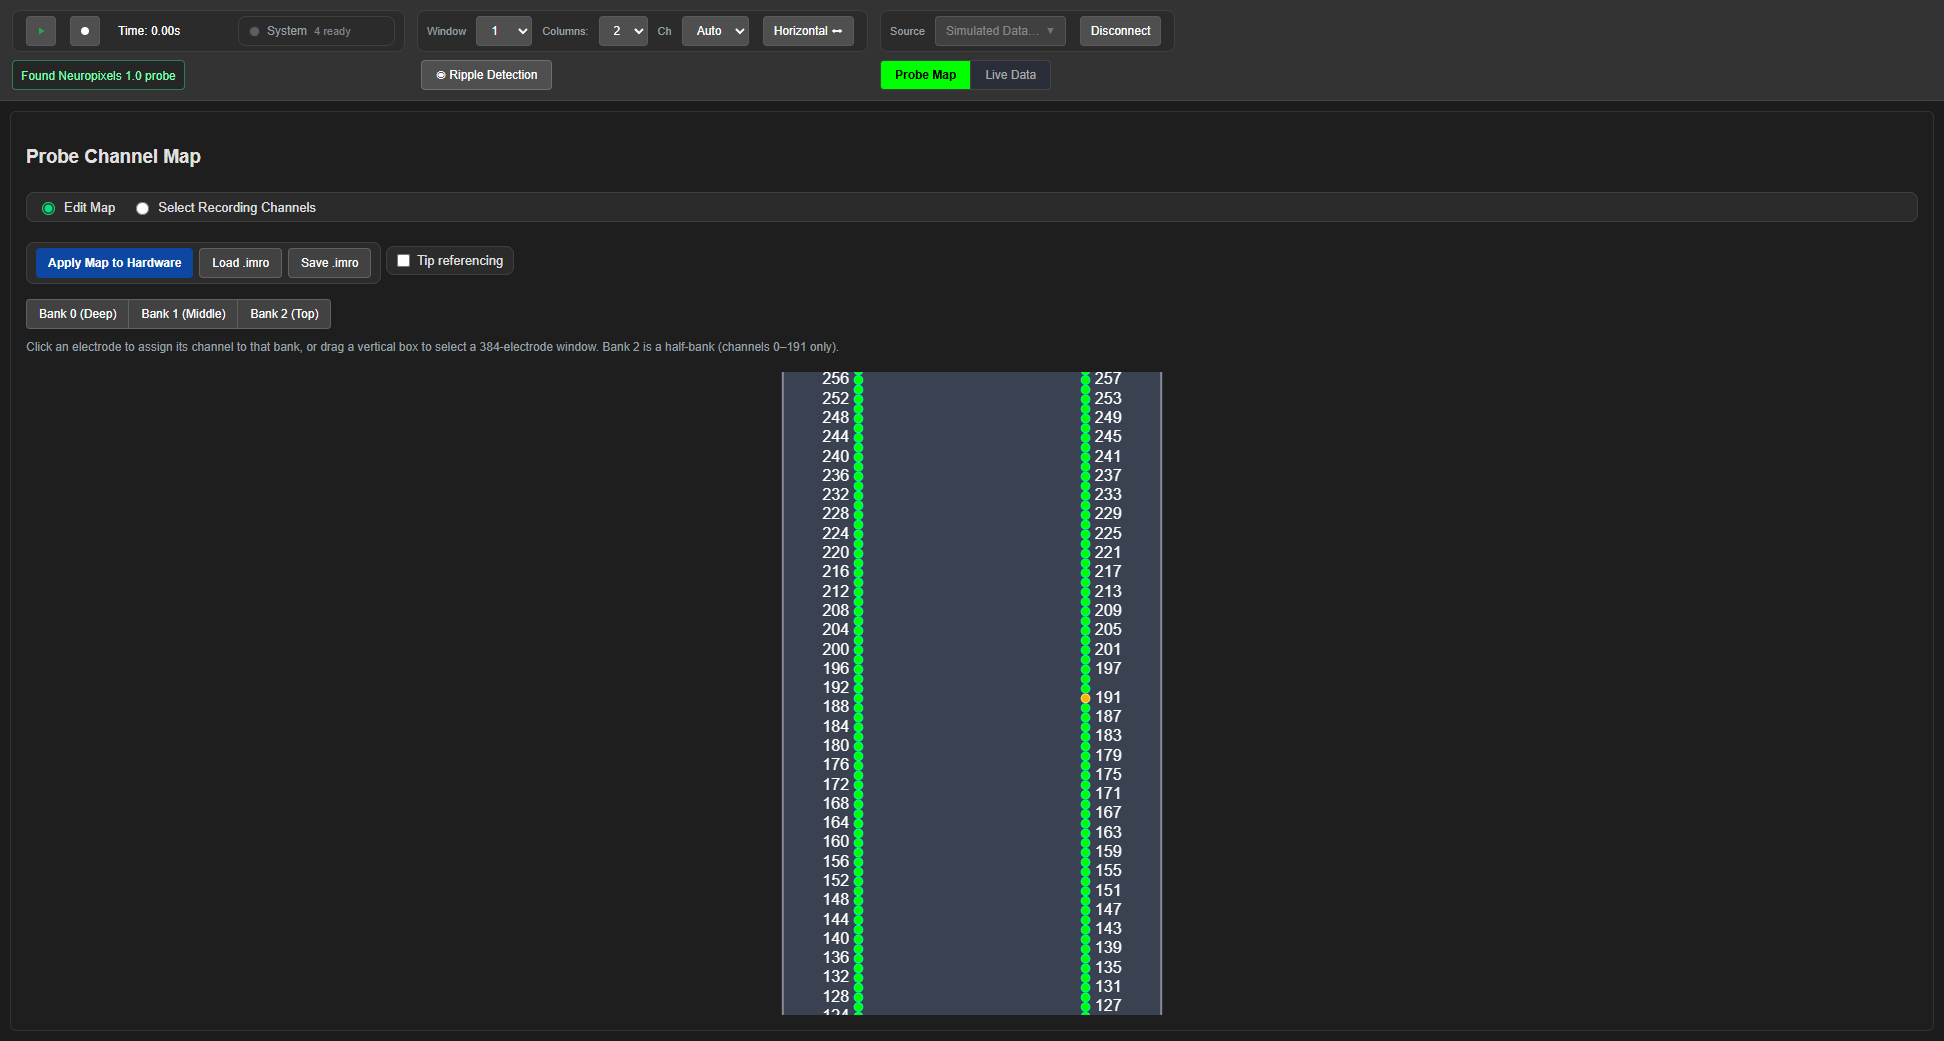
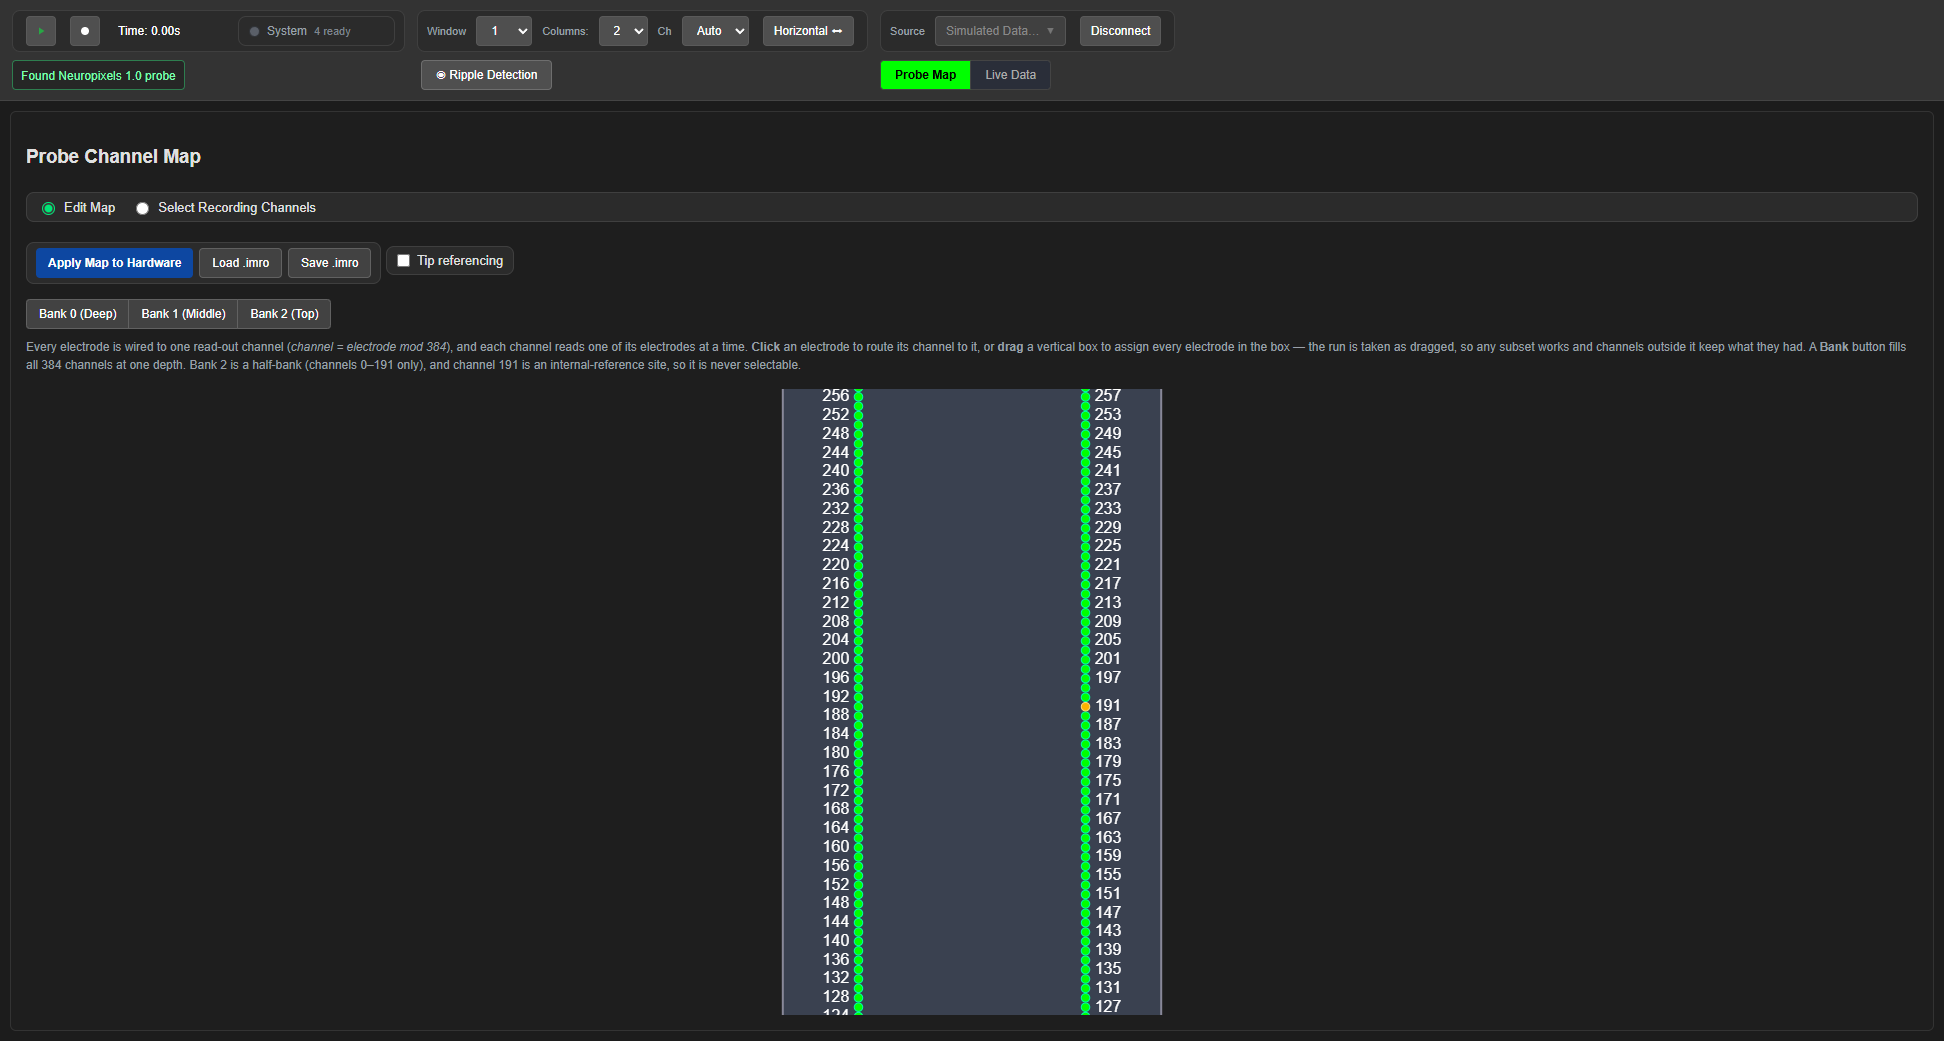
Deploying to master from @ NeuralAscension/SpikesPeak@3f0c355121f82295d0eeac0d670f5f9f4439de7a 🚀

Changed region(s): [[0.0, 0.3074, 0.9877, 0.9529]]

diff --git a/spikespeak/feature/OneBoxSupport/SpikesPeak_Status.html b/spikespeak/feature/OneBoxSupport/SpikesPeak_Status.html
@@ -248,6 +248,11 @@ Sections S1-S12 are <strong>thematic</strong> (the original IMRO/architecture ma
 <td><strong>The chart library is gone</strong>: SciChart removed entirely — live traces on a hand-written WebGL2 renderer, probe map on canvas 2D; 3.5 MB of vendored bundle deleted; 4.28x less main-thread CPU at 480 traces with the GPU at parity; four defects the removal exposed</td>
 </tr>
 <tr>
+<td>S63</td>
+<td>2026-08-27</td>
+<td><strong>The probe map is tested, and NP1.0 selection is free-form</strong>: click-to-route and drag-select now asserted against the resulting IMRO map; the NP1 drag stops padding out to a full 384-electrode window; stale drag handlers on reused labels fixed (T-13)</td>
+</tr>
+<tr>
 <td><strong>S21</strong></td>
 <td><strong>2026-07-09</strong></td>
 <td><strong>Stim closed loop: ripple → UDP <code>fire</code> → ESP32 → biphasic pulse on NI-DAQ ai4</strong></td>
@@ -5665,7 +5670,59 @@ draws-anything probe in <code>live_view.py</code> now asks the renderer for its 
 <p>Before the removal, the full GUI suite was run green under <strong>both</strong> renderers — 11/11 on SciChart and
 11/11 on WebGL2 — which is the evidence that the swap changed nothing an operator can see. Four tests
 that previously left no visual evidence (<code>sim_picker</code>, <code>shrink_window</code>, <code>record_flow</code>, <code>error_paths</code>)
-now each save a screenshot, so every test in the suite is inspectable.</p></article>
+now each save a screenshot, so every test in the suite is inspectable.</p>
+<hr />
+<h2 id="63-what-a-click-actually-selects-2026-08-27-later">63. WHAT A CLICK ACTUALLY SELECTS  (2026-08-27, later)<a class="headerlink" href="#63-what-a-click-actually-selects-2026-08-27-later" title="Permanent link">#</a></h2>
+<p>Three changes, all about the probe map being trustworthy rather than merely working.</p>
+<h3 id="63a-the-probe-map-is-now-tested-where-it-matters">63a. The probe map is now tested where it matters<a class="headerlink" href="#63a-the-probe-map-is-now-tested-where-it-matters" title="Permanent link">#</a></h3>
+<p>62 added a test that the map DRAWS. That is not the question an operator cares about. The question
+is whether a click lands on the electrode they aimed at — and getting that wrong is invisible: the
+map looks correct, the recording is of different sites, and you find out from the data.</p>
+<p>The test now computes the target pixel <strong>itself</strong> from the published axis ranges
+(<code>window.probeMapTest.geometry()</code>), drives a real mouse event through CDP, and asserts on the
+resulting IMRO channel map. Computing the pixel independently is the whole point: a test that reused
+<code>ProbeMap</code>'s own transform could only prove it was self-consistent with itself.</p>
+<p><strong>Proven able to fail</strong>, which is the only reason to keep it. Injecting a one-row error into
+<code>pxToY</code> trips six checks with the exact signature you would want:</p>
+<pre><code>NP1.0 click: aiming at electrode 630 (row 315, col 0) must route channel 246 to bank 1; it is on bank 0
+NP1.0 click on electrode 630: exactly channel 246 may change; channels [248] changed
+NP1.0 drag: dragging rows 286..344 must select rows 286..477; it selected 287..478
+</code></pre>
+<p>Two things had to be fixed in the test before it could fail at all, and both are worth recording:</p>
+<ul>
+<li><strong>The first version could not fail on NP1.</strong> A fresh map routes every channel to bank 0 and the
+  view opens on that block, so every electrode on screen was <em>already</em> selected — a click asked the
+  app to do what it had already done, and "did the bank change?" was vacuously true wherever the
+  click landed. NP2 caught the injected error; NP1 sailed through. The test now scrolls into an
+  unselected bank first, and asserts that it managed to, rather than passing on a no-op.</li>
+<li><strong>Channel 191 is skipped by a drag</strong>, because its electrodes are internal-reference sites. The
+  first drag assertion counted it and reported the selection as spanning the whole probe. The app
+  was right; the check was wrong.</li>
+</ul>
+<h3 id="63b-np10-selection-is-free-form">63b. NP1.0 selection is free-form<a class="headerlink" href="#63b-np10-selection-is-free-form" title="Permanent link">#</a></h3>
+<p>The operator asked for arbitrary per-channel selection on 1.0 probes, noting we appeared to offer
+only banks. <strong>Per-channel selection already worked</strong> — clicking electrode <em>E</em> routes channel
+<code>E mod 384</code> to bank <code>E div 384</code> on its own, <code>NpInterface.cpp</code> validates each <code>(channel, bank)</code> pair
+independently, and <code>np_selectElectrode</code> is called per channel. The new test proves it end to end.</p>
+<p>What was bank-like was the <strong>drag</strong>: it padded the dragged span out to exactly 192 rows so the result
+always covered all 384 channels exactly once. Tidy, and always valid — but not the hardware's rule,
+and it meant a 50-row drag silently produced a 192-row selection. Electrodes nobody asked for.</p>
+<p>The drag now assigns exactly what it covers, matching NP2.0's drag, OpenEphys and SpikeGLX. Channels
+outside the run keep the electrodes they had, which is always legal because each channel picks its
+own bank independently. The Bank buttons still fill all 384 channels at one depth in a click, so
+nothing that relied on a complete window is lost.</p>
+<p>The test asserts the <em>outside-is-untouched</em> property directly, since that is the substance of the
+change: reinstating the snap moves <strong>262 channels</strong> that were never dragged over, and the check says
+so by name.</p>
+<h3 id="63c-t-13-stale-drag-affordance-on-reused-labels">63c. T-13: stale drag affordance on reused labels<a class="headerlink" href="#63c-t-13-stale-drag-affordance-on-reused-labels" title="Permanent link">#</a></h3>
+<p>Channel labels are reused across draws — only their text is rewritten. <code>label.onmousedown</code> and the
+grab cursor were set only in the probe-electrode branch and never cleared, so a label that had once
+shown an electrode kept the Ctrl+drag-to-ripple gesture after the column switched to the OneBox ADC
+or NI-DAQ stream: it still looked draggable, and dragging it fired with an electrode index belonging
+to a stream no longer on screen.</p>
+<p>Cleared unconditionally at the top of the per-slot iteration rather than in each branch that does not
+want it — so a branch added later cannot inherit the same bug. Without the fix the new assertion
+reports <strong>20 labels</strong> still carrying a handler and a grab cursor.</p></article>
     <footer class="pagefoot">Generated from <code>SpikesPeak_Status.md</code> by <code>scripts/build_docs.py</code> &mdash; edit the Markdown and re-run.</footer>
   </main>
   <aside class="toc-col"><div class="toctitle">On this page</div><div class="toc">
@@ -6038,6 +6095,12 @@ now each save a screenshot, so every test in the suite is inspectable.</p></arti
 <li><a href="#62b-what-it-cost-measured-on-the-rig">62b. What it cost, measured on the rig</a></li>
 <li><a href="#62c-four-defects-the-removal-exposed">62c. Four defects the removal exposed</a></li>
 <li><a href="#62d-testing">62d. Testing</a></li>
+</ul>
+</li>
+<li><a href="#63-what-a-click-actually-selects-2026-08-27-later">63. WHAT A CLICK ACTUALLY SELECTS (2026-08-27, later)</a><ul>
+<li><a href="#63a-the-probe-map-is-now-tested-where-it-matters">63a. The probe map is now tested where it matters</a></li>
+<li><a href="#63b-np10-selection-is-free-form">63b. NP1.0 selection is free-form</a></li>
+<li><a href="#63c-t-13-stale-drag-affordance-on-reused-labels">63c. T-13: stale drag affordance on reused labels</a></li>
 </ul>
 </li>
 </ul>

diff --git a/spikespeak/feature/OneBoxSupport/user_docs/Neuropixels-1.0.html b/spikespeak/feature/OneBoxSupport/user_docs/Neuropixels-1.0.html
@@ -182,11 +182,28 @@ the map live (each Apply briefly pauses and restarts streaming automatically).</
    - <strong>Bank 2 (Top)</strong> — the half-bank: channels 0–191 jump to bank 2, channels 192–383 stay on bank 0.</li>
 <li><strong>Click an electrode</strong> — routes <em>that electrode's channel</em> to <em>that electrode's bank</em> (its
    bank-siblings auto-deselect). Use this to hand-tune individual channels.</li>
-<li><strong>Drag a vertical box</strong> — selects a contiguous 384-electrode depth window (always a valid full map).</li>
+<li><strong>Drag a vertical box</strong> — assigns every electrode in the box to its own read-out channel. The run
+   is taken <strong>exactly as dragged</strong>: channels outside it keep whatever electrodes they already had.
+   Drag several times, in different places, to build a selection that is not one contiguous block.</li>
 </ol>
 <blockquote>
 <p>The on-panel hint summarizes this; Bank 2 being a half-bank (channels 0–191 only) is expected.</p>
 </blockquote>
+<p><strong>What you are allowed to select, and why.</strong> Every electrode is hard-wired to exactly one read-out
+channel: <code>channel = electrode mod 384</code>. A channel can read <em>one</em> of its electrodes at a time, so
+picking electrode <em>E</em> automatically drops whichever sibling that channel was reading. That is the
+only rule. Any set of electrodes is legal as long as no two of them share a channel — which the
+editor enforces for you, because selecting one sibling always releases the other.</p>
+<p>Two consequences worth knowing:</p>
+<ul>
+<li><strong>Electrodes 768–959 (bank 2) only exist for channels 0–191.</strong> Channel 192 has no bank-2 electrode
+  (192 + 384×2 = 960, one past the end), so the top of the shank is half-width.</li>
+<li><strong>Channel 191 is never selectable.</strong> Its three electrodes (191, 575, 959) are internal-reference
+  sites, shown in amber. A drag that crosses them skips that channel and leaves it where it was.</li>
+</ul>
+<p>Before 2026-08-27 a drag padded the dragged span out to a full 384-electrode window, so a short drag
+quietly selected electrodes you had not asked for. It no longer does. Use a <strong>Bank</strong> button when you
+want the complete uniform window.</p>
 <p><strong>Save / Load a map:</strong>
 - <strong>Save .imro</strong> — downloads the current map as a standard <code>.imro</code> file (via your browser's download).
 - <strong>Load .imro</strong> — pick a <code>.imro</code> file; the editor loads + displays it. <em>Loading does not apply it</em> —

diff --git a/spikespeak/feature/OneBoxSupport/developer_docs/RendererContract.html b/spikespeak/feature/OneBoxSupport/developer_docs/RendererContract.html
@@ -1003,11 +1003,16 @@ shape the tier had chosen. The shape must not depend on the thing being measured
 chart and the ResizeObserver repaints on every hover. It also keeps the <strong>narrow 3-row template</strong>,
 because <code>#view-data</code> is <code>overflow:hidden</code> and a 448 px overlay in a narrow column loses ~275 px of
 controls.</p>
-<p><strong>T-13 — Stale drag handlers (a real defect, still present).</strong> <code>label.onmousedown</code> and <code>cursor:'grab'</code>
-are assigned only in the probe-electrode branch and are never cleared in the REF / ADC / plain
-branches (<code>ChartColumn.js:766-792</code>). Labels are reused across draws, so scrolling a probe label into a
-REF slot, or switching a column from a probe to the ADC, leaves a drag handler bound with the
-<strong>previous</strong> channel's electrode captured in its closure.</p>
+<p><strong>T-13 — Per-slot label state must be cleared at the TOP of the loop (fixed 2026-08-27).</strong> The label
+elements are reused across draws — only their text is rewritten — so anything set in one branch
+survives into a later draw whose branch never sets it. <code>label.onmousedown</code> and <code>cursor:'grab'</code> were
+assigned only in the probe-electrode branch and cleared nowhere, so switching a column from a probe
+band to the OneBox ADC or NI-DAQ left a drag handler bound with the <strong>previous</strong> channel's electrode
+captured in its closure: the label still looked draggable and dragging it fired with a stale index.</p>
+<p>They are now cleared unconditionally at the start of each slot iteration, and only set in the branch
+that wants them — deliberately, so that a branch added later cannot inherit the bug by omission.
+<code>tests/gui/stream_options.py</code> asserts a non-electrode stream leaves <strong>zero</strong> labels carrying the
+handler or the grab cursor; without the fix it reports 20.</p>
 <p><strong>T-14 — <code>draw()</code> is the sole owner of shank/side visibility.</strong> <code>refreshFilterOptions()</code> used to set it
 and caused a visible flash, because its test (<code>hasOrdering()</code>) is weaker than draw's
 (<code>hasOrdering() &amp;&amp; channels.length === 384</code>). <code>refreshFilterOptions()</code> also <strong>early-returns</strong> with no

diff --git a/spikespeak/feature/OneBoxSupport/user_docs/GUI-Guide.html b/spikespeak/feature/OneBoxSupport/user_docs/GUI-Guide.html
@@ -197,9 +197,11 @@ the channel map) and <strong>Select Recording Channels</strong> (§4).</p>
 <ul>
 <li><strong>Green</strong> = an electrode whose channel is active (will stream); <strong>gray</strong> = available; <strong>amber</strong> =
   the internal-reference site (channel 191 — reserved, not recordable).</li>
-<li><strong>Click</strong> an electrode to route its read-out channel to that electrode's <strong>bank</strong>; <strong>drag</strong> a vertical
-  box to select a contiguous 384-electrode window. The <strong>Bank 0 / 1 / 2</strong> buttons are quick presets
-  (Bank 2 is a half-bank, channels 0–191 only).</li>
+<li><strong>Click</strong> an electrode to route its read-out channel to it; <strong>drag</strong> a vertical box to assign every
+  electrode in the box. The run is taken exactly as dragged — channels outside it keep the electrodes
+  they already had — so you can build any selection you like, one region at a time. The
+  <strong>Bank 0 / 1 / 2</strong> buttons remain quick presets that fill all 384 channels at one depth (Bank 2 is a
+  half-bank, channels 0–191 only).</li>
 <li><strong>Apply Map to Hardware</strong> pushes the map to the probe (and re-orders the live view by depth).</li>
 <li><strong>Save .imro / Load .imro</strong> write/read the channel map as a standard <code>.imro</code> file (a bad or wrong-probe
   file is rejected).</li>
